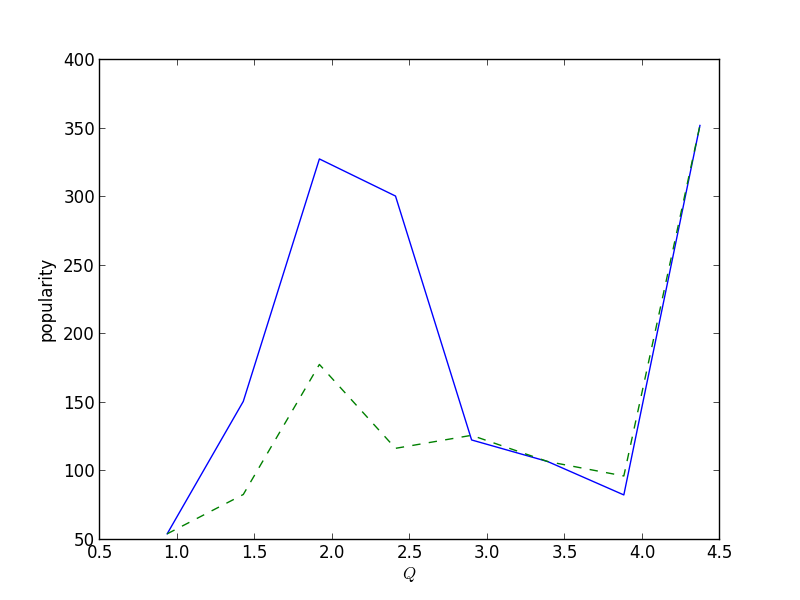
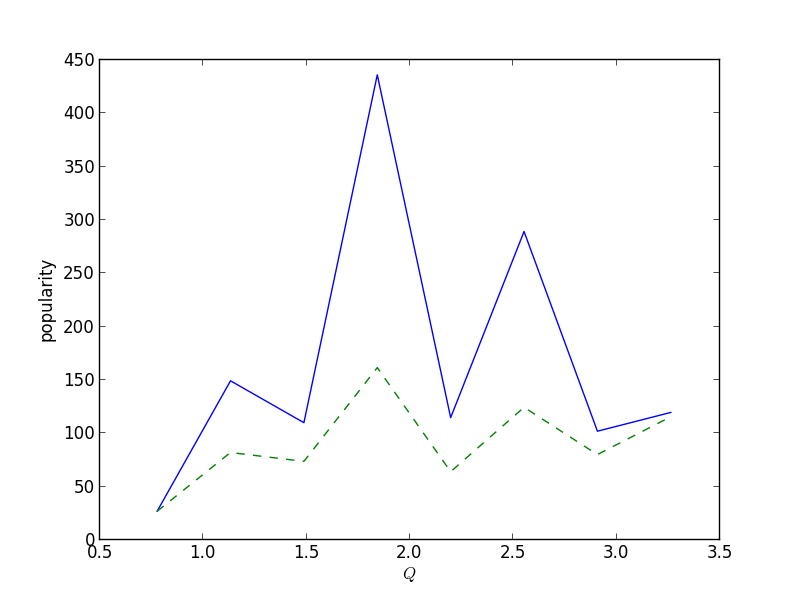
Last draw of diagrams.

diff --git a/code/analyze_graph.py b/code/analyze_graph.py
@@ -4,6 +4,7 @@ import itertools
 import matplotlib.pyplot as plt
 import numpy as np
 import table
+from collections import OrderedDict
 
 def read_contributors():
     contributors = {}
@@ -161,21 +162,20 @@ def graph(name, data, popularity):
 
     create_graph(name, q_bins, q_values)
     create_histogram(name + "-q", "$Q$", q, log_y_scale=True)
-    highest_performing(name, q_bins, q_values)
 
     total_projects = len(set(sum(contributors.values(), [])))
 
     write_table("subgraphs_summary",
                 table.create_table("Summary", "fig:summary_stats", "Projects: %s, Subgraphs: %s, Contributors: %s" % (total_projects, N, len(contributors.keys())),
-                                   {
-                                       "$Q$": q,
-                                       "$C$": cc,
-                                       "$\overline{C}$": avg_cc,
-                                       "$L$": pl,
-                                       "Popularity": popularity_score,
-                                       "Nodes": subgraph_node_number,
-                                       "Edges": subgraph_edge_number
-                                   }))
+                                   OrderedDict([
+                                       ("$Q$", q),
+                                       ("$C$", cc),
+                                       ("$\overline{C}$", avg_cc),
+                                       ("$L$", pl),
+                                       ("Popularity",popularity_score),
+                                       ("Nodes", subgraph_node_number),
+                                       ("Edges", subgraph_edge_number)
+                                   ])))
 
 def write_table(file_name, table_tex):
     with open("../paper/tables/"+file_name+".tex", 'w') as the_file:
@@ -191,29 +191,6 @@ def create_histogram(filename, x_label, data, log_y_scale=False):
     F = plt.gcf()
     F.savefig("../paper/images/"+filename+"-histo.png")
     plt.close(fig)
-
-def highest_performing(filename, bins, values):
-    popular_bins = []
-    unpopular_bins = []
-
-    for bin,value in zip(bins,values):
-        if len(value) < 3: continue
-        popular_repos = len([v for v in value if v > 100])
-        unpopular_repos = len([v for v in value if v < 100 ])
-        print str(bin) + " " + str(popular_repos) + " " + str(unpopular_repos) + " " + str(len(value))
-        for _ in range(int( (float(popular_repos) / len(value)) * 100 )):
-            popular_bins.append(bin)
-        for _ in range(int( (float(unpopular_repos) / len(value)) * 100 )):
-            unpopular_bins.append(bin)
-
-    for name, data in zip(["popular","unpopular"], [popular_bins,unpopular_bins]):
-        fig = plt.figure()
-        plt.hist(data, 4, color="0.75")
-        plt.xlabel("$Q$")
-        plt.ylabel("% " + name)
-        F = plt.gcf()
-        F.savefig("../paper/images/"+filename+"-"+name+".png")
-        plt.close(fig)
 
 def create_graph(filename, x, y):
     for j in y: print len(j)

diff --git a/paper/main.tex b/paper/main.tex
@@ -249,26 +249,6 @@ To validate the hypothesis, we expect to find that medium values of $Q$ will be 
 \label{fig:cc_graph}
 \end{figure}
 
-Popular projects do appear to conform to the results found by Uzzi\cite{uzzi2005collaboration}. As show in figure \ref{fig:cc_popular}, $Q$ near the extremes show a relatively low likelihood of being popular. As $Q$ values approach mid-range values, the probability of a project being a success increases greatly.
-
-
-\begin{figure}
-\begin{center}
-\includegraphics[width=0.5\textwidth]{images/freecode-popular.png}
-\end{center}
-\caption{$Q$ of Popular Projects}
-\label{fig:cc_popular}
-\end{figure}
-
-The inverse is true of unpopular projects. As $Q$ near the extremes, a high probability of being unsuccessful is observed. Mid-valued $Q$ values indicate a substantially lower probability of being unsuccessful.
-
-\begin{figure}
-\begin{center}
-\includegraphics[width=0.5\textwidth]{images/freecode-unpopular.png}
-\end{center}
-\caption{$Q$ of Unpopular Projects}
-\label{fig:cc_unpopular}
-\end{figure}
 
 Distribution of $Q$ values are shown in figure\ref{fig:q_distribution}. The values of $Q$ generally follow a power-law distribution, with most values being at our around $Q = 1$. This indicates that many graphs are close to the delineation of being considered small-world\cite{humphries2008network}.
 

diff --git a/paper/tables/subgraphs_summary.tex b/paper/tables/subgraphs_summary.tex
@@ -3,15 +3,15 @@
 \textbf{Statistics} }\begin{tabular} {@{} l r  r  r  r  r  r  @{}} \\ \hline
 \textbf{Statistic} & \textbf{Mean} & \textbf{Med} & \textbf{Max} & \textbf{Min} & \textbf{Std} \\ 
 \hline
-$\overline{C}$ & 0.85 & 1.0 & 1.0 & 0.14 & 0.25 \\ 
-$L$ & 1.11 & 1.0 & 2.02 & 1.0 & 0.23 \\ 
-$C$ & 0.91 & 1.0 & 1.0 & 0.32 & 0.17 \\ 
-Popularity & 178.9 & 88.48 & 3978.95 & 9.49 & 369.41 \\ 
-$Q$ & 1.36 & 1.0 & 4.37 & 0.93 & 0.68 \\ 
-Edges & 5.34 & 3.0 & 78.0 & 2.0 & 7.48 \\ 
+$Q$ & 1.33 & 1.0 & 3.26 & 0.78 & 0.59 \\ 
+$C$ & 0.92 & 1.0 & 1.0 & 0.18 & 0.17 \\ 
+$\overline{C}$ & 0.86 & 1.0 & 1.0 & 0.15 & 0.23 \\ 
+$L$ & 1.1 & 1.0 & 2.02 & 1.0 & 0.21 \\ 
+Popularity & 175.49 & 85.13 & 3978.95 & 9.49 & 367.28 \\ 
 Nodes & 4.06 & 3.0 & 16.0 & 3.0 & 2.12 \\ 
+Edges & 5.34 & 3.0 & 78.0 & 2.0 & 7.48 \\ 
 \hline
 \multicolumn{6}{@{}l}{
-Projects: 41121, Subgraphs: 152, Contributors: 21970}
+Projects: 41121, Subgraphs: 154, Contributors: 21970}
 \end{tabular}
 \end{table}
